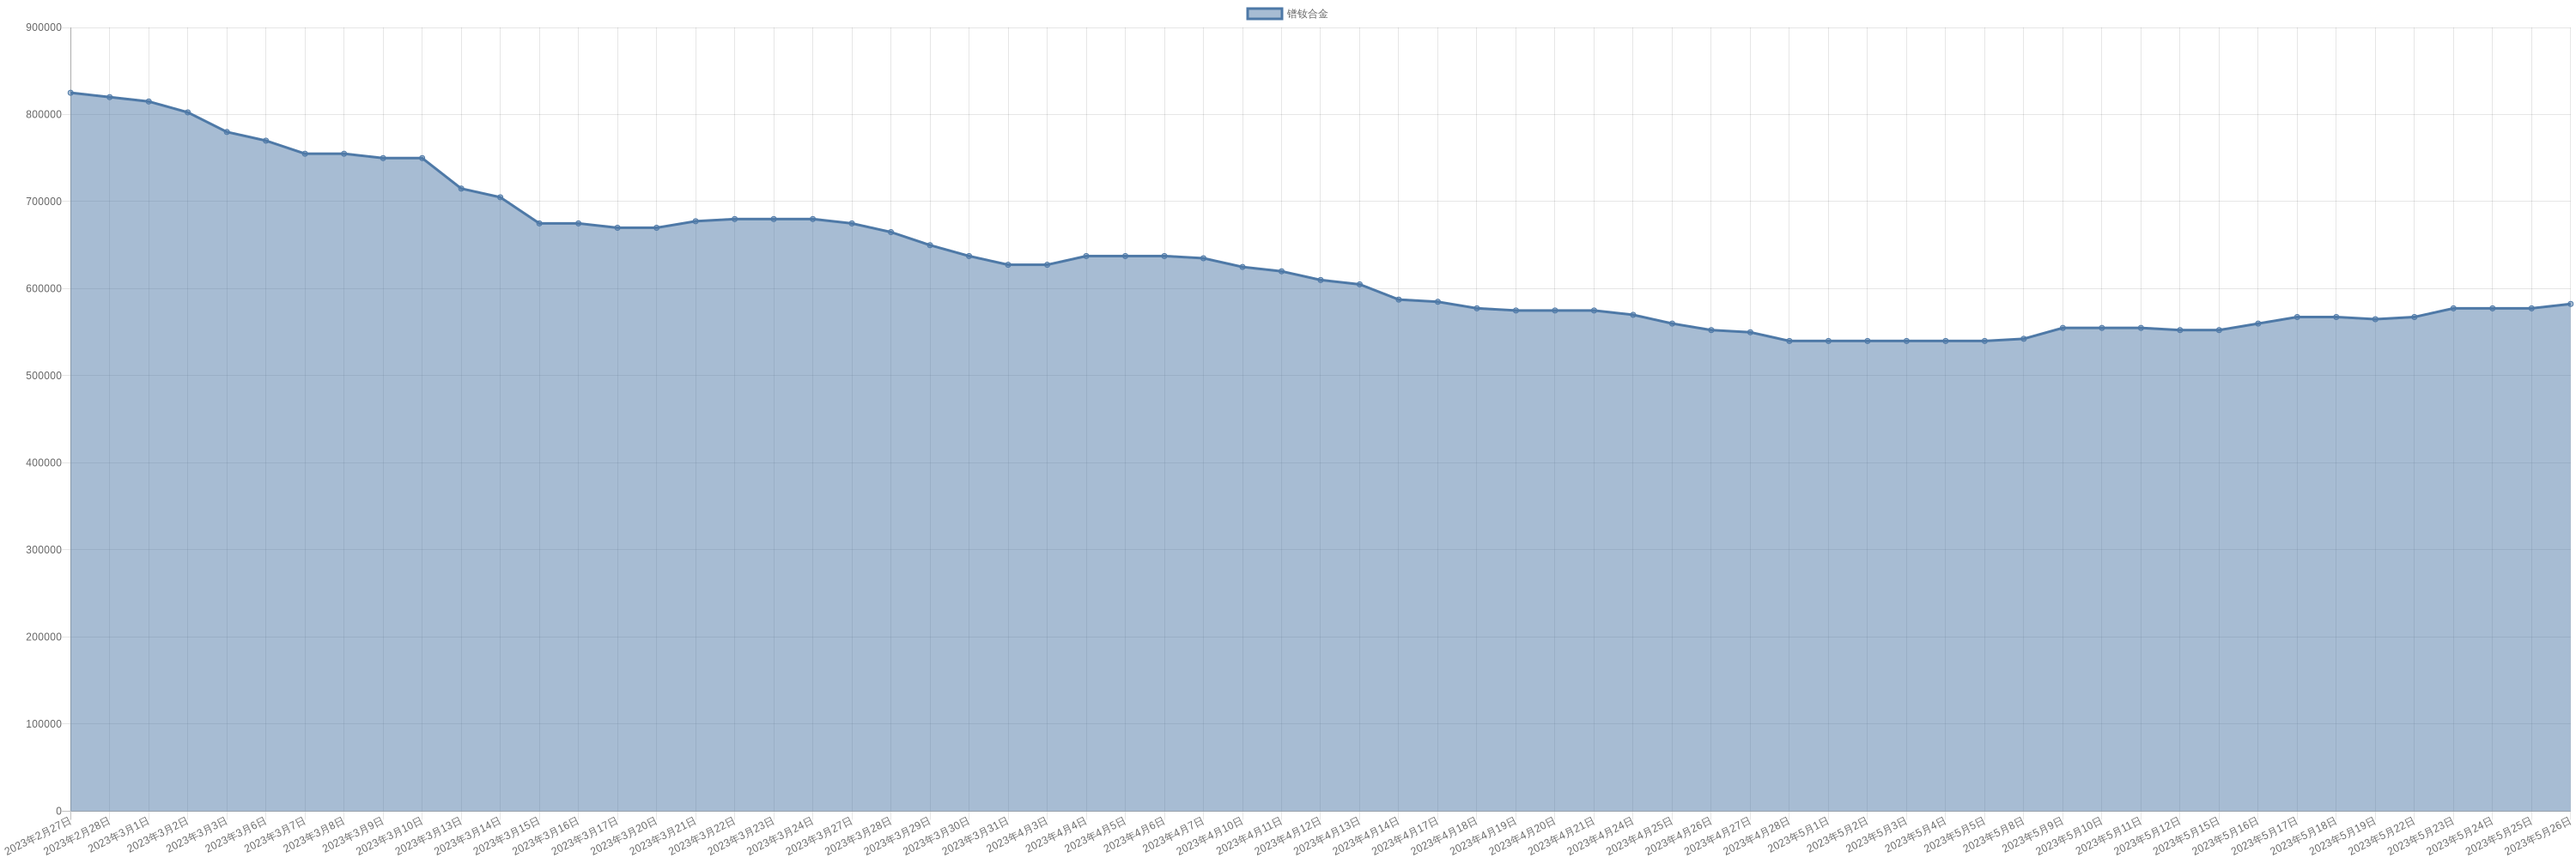
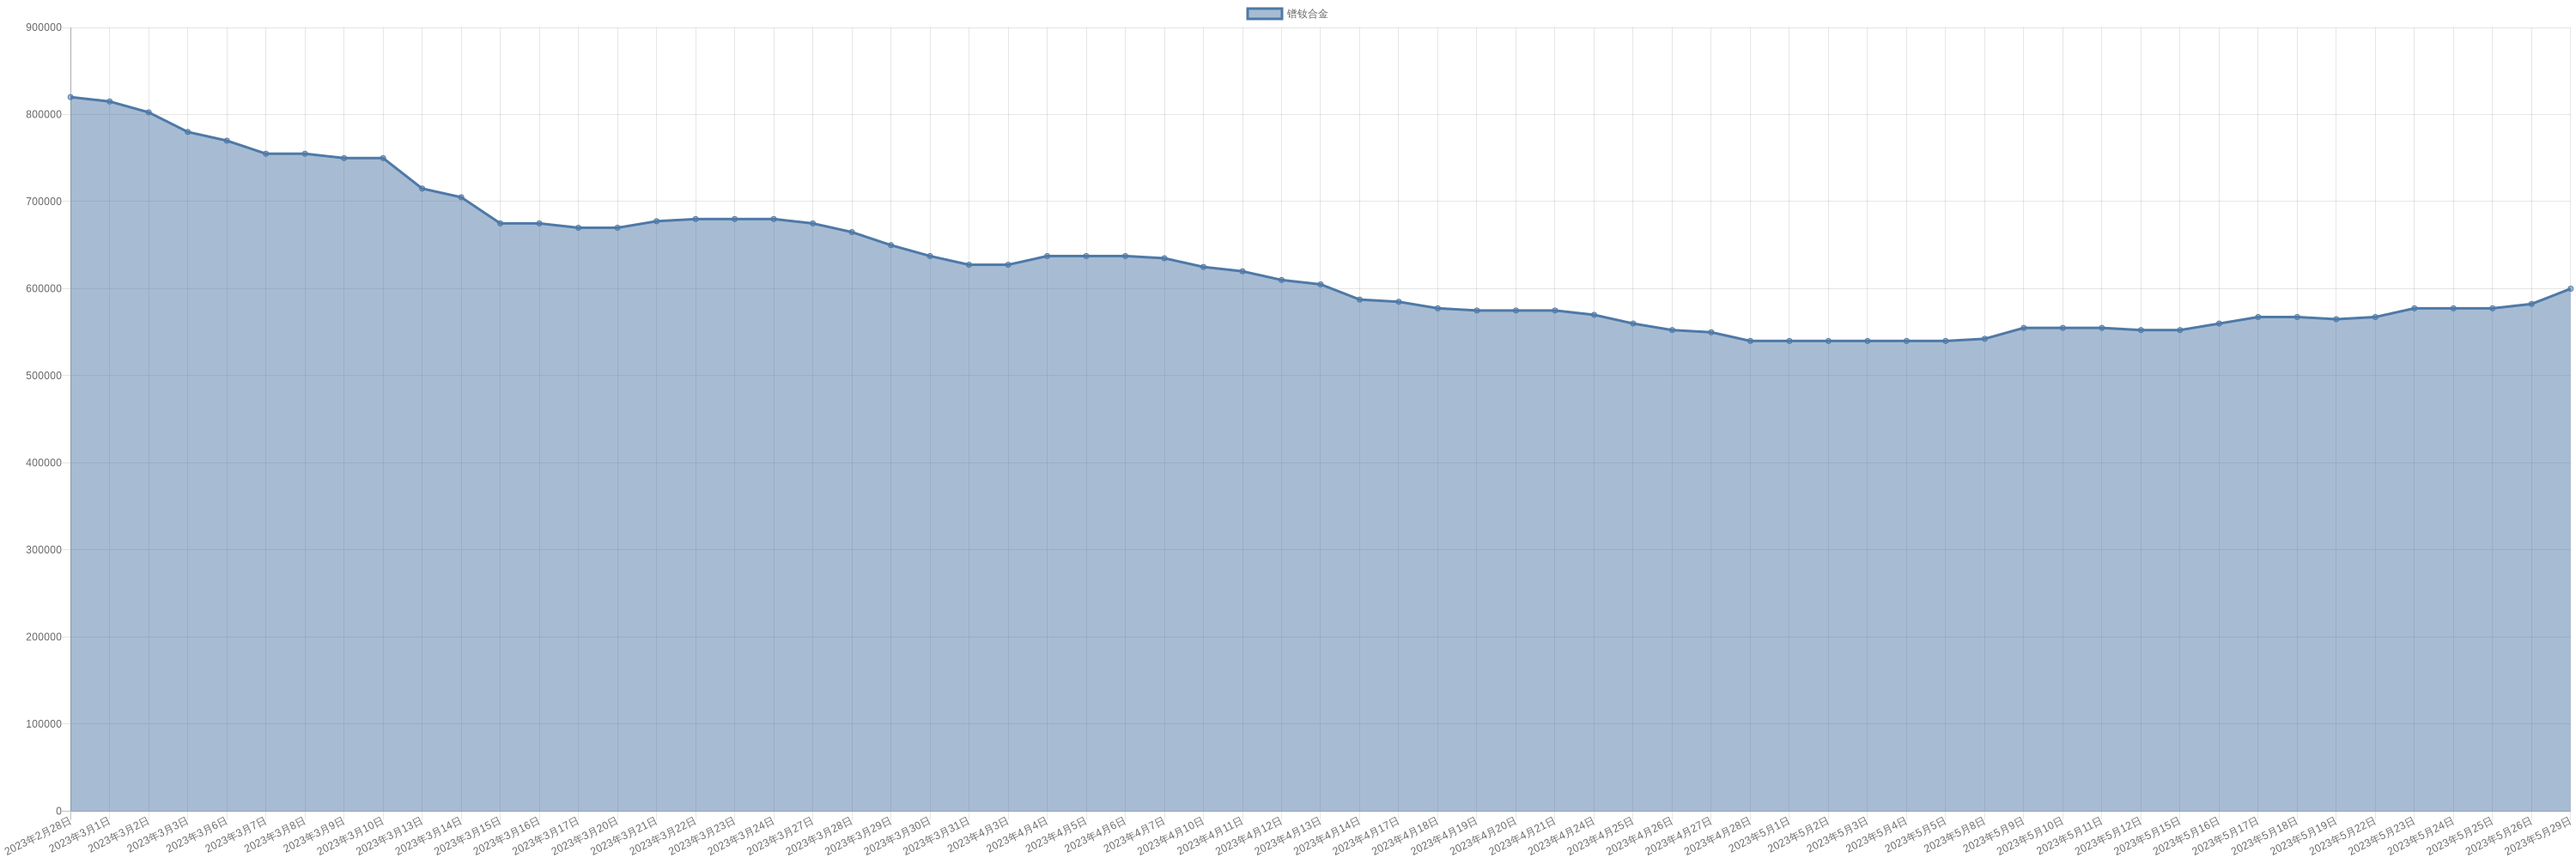
chore: sync commodity monitor

diff --git a/markdown/commodity/crudeOil.md b/markdown/commodity/crudeOil.md
@@ -2,6 +2,8 @@
 
 | 时间 | 价格 | 消息正文 |
 |:--:|:--:|:--:|
+|2023年5月29日Brent|76.98|5月29日Brent原油为76.98|
+|2023年5月29日WTI|72.67|5月29日WTI原油为72.67|
 |2023年5月26日Brent|76.18|5月26日Brent原油为76.18|
 |2023年5月26日WTI|71.83|5月26日WTI原油为71.83|
 |2023年5月25日WTI|74.34|5月25日WTI原油为74.34|

diff --git a/markdown/commodity/praseodymiumNeodymiumOxide.md b/markdown/commodity/praseodymiumNeodymiumOxide.md
@@ -8,6 +8,7 @@
 
 | 时间 | 价格 | 消息正文 |
 |:--:|:--:|:--:|
+|2023年5月29日|502500|5月29日镨钕氧化物为502500.00|
 |2023年5月26日|487500|5月26日镨钕氧化物为487500.00|
 |2023年5月25日|482500|5月25日镨钕氧化物为482500.00|
 |2023年5月24日|482500|5月24日镨钕氧化物为482500.00|

diff --git a/markdown/commodity/dyFeAlloy.md b/markdown/commodity/dyFeAlloy.md
@@ -8,6 +8,7 @@
 
 | 时间 | 价格 | 消息正文 |
 |:--:|:--:|:--:|
+|2023年5月29日|2080000|5月29日镝铁合金为2080000.00|
 |2023年5月26日|2080000|5月26日镝铁合金为2080000.00|
 |2023年5月25日|2055000|5月25日镝铁合金为2055000.00|
 |2023年5月24日|2055000|5月24日镝铁合金为2055000.00|

diff --git a/markdown/commodity/lithiumHydroxide.md b/markdown/commodity/lithiumHydroxide.md
@@ -8,6 +8,7 @@
 
 | 时间 | 价格 | 消息正文 |
 |:--:|:--:|:--:|
+|2023年5月29日|305000|5月29日氢氧化锂为305000.00|
 |2023年5月26日|305000|5月26日氢氧化锂为305000.00|
 |2023年5月25日|305000|5月25日氢氧化锂为305000.00|
 |2023年5月24日|305000|5月24日氢氧化锂为305000.00|

diff --git a/markdown/commodity/praseodymiumNeodymiumAlloy.md b/markdown/commodity/praseodymiumNeodymiumAlloy.md
@@ -8,6 +8,7 @@
 
 | 时间 | 价格 | 消息正文 |
 |:--:|:--:|:--:|
+|2023年5月29日|600000|5月29日镨钕合金为600000.00|
 |2023年5月26日|582500|5月26日镨钕合金为582500.00|
 |2023年5月25日|577500|5月25日镨钕合金为577500.00|
 |2023年5月24日|577500|5月24日镨钕合金为577500.00|

diff --git a/markdown/commodity/dysprosiumOxide.md b/markdown/commodity/dysprosiumOxide.md
@@ -8,6 +8,7 @@
 
 | 时间 | 价格 | 消息正文 |
 |:--:|:--:|:--:|
+|2023年5月29日|2130000|5月29日氧化镝为2130000.00|
 |2023年5月26日|2130000|5月26日氧化镝为2130000.00|
 |2023年5月25日|2130000|5月25日氧化镝为2130000.00|
 |2023年5月24日|2130000|5月24日氧化镝为2130000.00|

diff --git a/markdown/commodity/liquefiedNaturalGas.md b/markdown/commodity/liquefiedNaturalGas.md
@@ -8,6 +8,7 @@
 
 | 时间 | 价格 | 消息正文 |
 |:--:|:--:|:--:|
+|2023年5月29日|3820|5月29日液化天然气为3820.00|
 |2023年5月26日|3728|5月26日液化天然气为3728.00|
 |2023年5月25日|3688|5月25日液化天然气为3688.00|
 |2023年5月24日|3652|5月24日液化天然气为3652.00|

diff --git a/markdown/commodity/lithiumIronPhosphate.md b/markdown/commodity/lithiumIronPhosphate.md
@@ -8,6 +8,7 @@
 
 | 时间 | 价格 | 消息正文 |
 |:--:|:--:|:--:|
+|2023年5月29日|92000|5月29日磷酸铁锂为92000.00|
 |2023年5月26日|90000|5月26日磷酸铁锂为90000.00|
 |2023年5月25日|80000|5月25日磷酸铁锂为80000.00|
 |2023年5月24日|80000|5月24日磷酸铁锂为80000.00|

diff --git a/markdown/commodity/neodymium.md b/markdown/commodity/neodymium.md
@@ -8,6 +8,7 @@
 
 | 时间 | 价格 | 消息正文 |
 |:--:|:--:|:--:|
+|2023年5月29日|630000|5月29日金属钕为630000.00|
 |2023年5月26日|620000|5月26日金属钕为620000.00|
 |2023年5月25日|620000|5月25日金属钕为620000.00|
 |2023年5月24日|620000|5月24日金属钕为620000.00|

diff --git a/markdown/commodity/neodymiumOxide.md b/markdown/commodity/neodymiumOxide.md
@@ -8,6 +8,7 @@
 
 | 时间 | 价格 | 消息正文 |
 |:--:|:--:|:--:|
+|2023年5月29日|500000|5月29日氧化钕为500000.00|
 |2023年5月26日|487500|5月26日氧化钕为487500.00|
 |2023年5月25日|482500|5月25日氧化钕为482500.00|
 |2023年5月24日|482500|5月24日氧化钕为482500.00|

diff --git a/markdown/commodity/praseodymium.md b/markdown/commodity/praseodymium.md
@@ -8,6 +8,7 @@
 
 | 时间 | 价格 | 消息正文 |
 |:--:|:--:|:--:|
+|2023年5月29日|635000|5月29日金属镨为635000.00|
 |2023年5月26日|625000|5月26日金属镨为625000.00|
 |2023年5月25日|625000|5月25日金属镨为625000.00|
 |2023年5月24日|625000|5月24日金属镨为625000.00|

diff --git a/markdown/commodity/praseodymiumOxide.md b/markdown/commodity/praseodymiumOxide.md
@@ -8,6 +8,7 @@
 
 | 时间 | 价格 | 消息正文 |
 |:--:|:--:|:--:|
+|2023年5月29日|495000|5月29日氧化镨为495000.00|
 |2023年5月26日|485000|5月26日氧化镨为485000.00|
 |2023年5月25日|485000|5月25日氧化镨为485000.00|
 |2023年5月24日|485000|5月24日氧化镨为485000.00|
